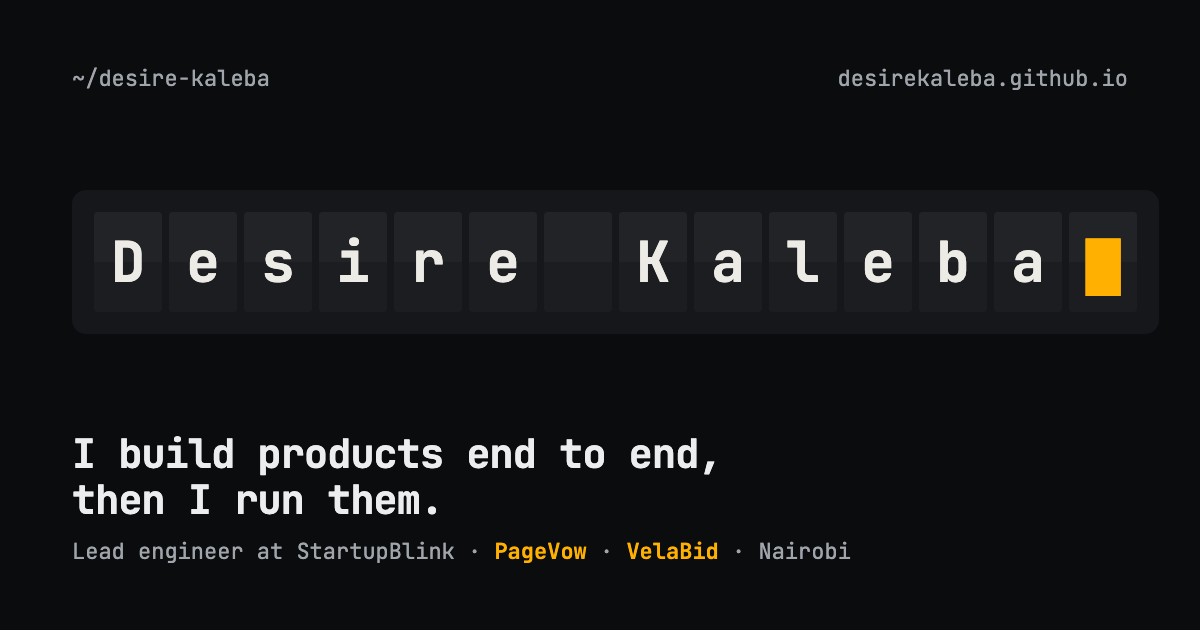
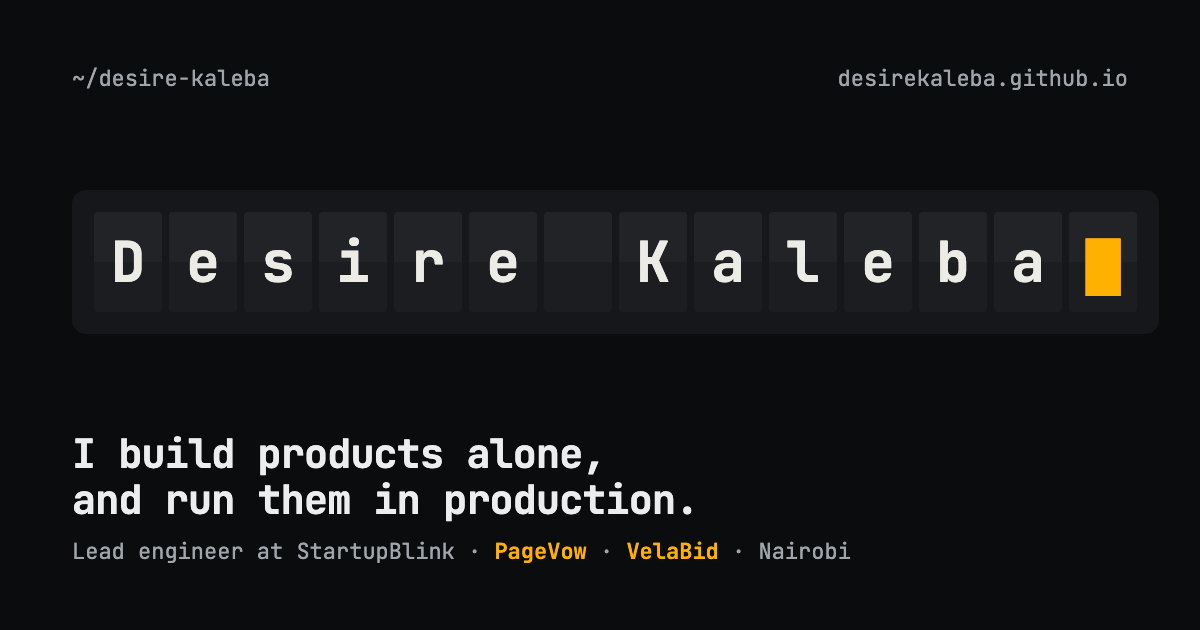
feat(site): lead with proof and separate my products from my job
The home page listed StartupBlink under "things I built". It's my
employer, so it now leads the experience section, linked to its case
study. "Things I built" is just PageVow and VelaBid.

Copy changes:
- Headline and intro lead with proof: paying customers with no
  marketing, two products built alone, seven engineers.
- 7 years, not "6+", and requests per month (~18M) everywhere.
- PageVow and VelaBid get engineering evidence from their repos:
  commits, test counts, payments from day one, WhatsApp sharing,
  integration tests on the money paths.
- "How I build" quotes the real testing rules from PageVow's CLAUDE.md
  instead of a made-up snippet.
- Experience moves up, right after the products.

Changed region(s): [[0.0617, 0.6937, 0.6167, 0.8444]]

diff --git a/src/data/work.ts b/src/data/work.ts
@@ -40,23 +40,23 @@ export const caseStudies: CaseStudy[] = [
       'How I built and run PageVow alone: personal pages for life’s big moments, an AI pipeline that never publishes unchecked output, and a hardened Paystack payment flow.',
     role: 'founder, solo engineer',
     summary:
-      'Personal pages for birthdays, proposals, graduations and weddings: letters, albums and invitations. AI writes from the customer’s own notes, nothing is published unchecked, and publishing is the step you pay for.',
+      'Personal pages for birthdays, proposals, graduations and weddings: letters, albums and invitations. 123 people have made 600+ pages, about five each, and nobody found it through an ad. AI writes from the customer’s own notes, and nothing is published unchecked.',
     facts: [
-      { k: 'users', v: '123' },
-      { k: 'pages_generated', v: '600+' },
+      { k: 'pages_generated', v: '600+ from 123 users' },
+      { k: 'team_made_requests', v: '79' },
       { k: 'marketing_spend', v: '0 (first $200 came organically)' },
     ],
     stack: 'TypeScript Turborepo · Next.js · NestJS · Drizzle · PostgreSQL · Cloudflare R2 · Paystack',
     meta: [
       { k: 'role', v: 'Founder and solo engineer' },
       { k: 'status', v: 'Live at pagevow.com' },
-      { k: 'since', v: 'March 2026' },
+      { k: 'since', v: 'March 2026 · 640+ commits' },
       { k: 'stack', v: 'TypeScript Turborepo · Next.js · NestJS · Drizzle · PostgreSQL · Cloudflare R2 · Paystack' },
     ],
     links: [{ label: 'pagevow.com ↗', href: 'https://pagevow.com' }],
     numbers: [
-      { v: '123', k: 'users' },
-      { v: '600+', k: 'pages generated' },
+      { v: '600+', k: 'pages, made by 123 people' },
+      { v: '79', k: 'requests for team-made pages' },
       { v: '$0', k: 'spent on marketing' },
     ],
     sections: [
@@ -75,19 +75,22 @@ export const caseStudies: CaseStudy[] = [
       },
       {
         title: 'What I built',
-        paras: ['All of it, as founder and the only engineer. The spine is a five-step pipeline. Click through it.'],
+        paras: ['All of it, as founder and the only engineer: 640+ commits since March 2026. The spine is a five-step pipeline. Click through it.'],
         bullets: [
           'A TypeScript Turborepo: a Next.js web app, and a NestJS API that owns the payment boundary.',
+          '373 test files: 252 for the web app, 69 API integration tests against a real Postgres, and 52 Playwright journeys. Every change ships with its tests.',
           'The generate → validate → review → pay → publish pipeline.',
           'Validation and optional human review for every piece of model output.',
           'Hardened Paystack payments: signed checkout tokens, idempotent webhooks, replay fingerprinting, server-set amounts and a persistent security audit trail.',
           'Published pages with QR sharing, RSVPs, media and analytics.',
+          'A WhatsApp share button wherever a page is ready to send, with each link tagged (via=wa) so I can see what WhatsApp brings in.',
         ],
         diagram: true,
       },
       {
         title: 'The hard parts, and the decisions',
         decisions: [
+          { t: 'Charge from day one.', d: 'Paystack checkout was part of the first day’s commits, so every page since has been a real test of whether people will pay.' },
           { t: 'Model output never goes straight to publish.', d: 'Every generated page is validated, and can go to a human for review, before it can be published.' },
           { t: 'AI writes only from the customer’s notes.', d: 'Captions and pages are written from what the customer told us, so a page says what they meant, not what a model invented.' },
           { t: 'Try first, pay to publish.', d: 'A free, watermarked 24-hour preview, no card needed. Each page is a single purchase, with no subscription to explain or support.' },
@@ -100,8 +103,8 @@ export const caseStudies: CaseStudy[] = [
         paras: ['With zero marketing:'],
         numbers: [
           { v: '123', k: 'users' },
-          { v: '600+', k: 'pages generated' },
-          { v: '79', k: 'customer requests' },
+          { v: '600+', k: 'pages, about five each' },
+          { v: '79', k: 'requests for team-made pages' },
           { v: '$200', k: 'first organic revenue' },
         ],
       },
@@ -171,7 +174,7 @@ export const caseStudies: CaseStudy[] = [
       },
       {
         title: 'What I built',
-        paras: ['All of it, as founder and the only engineer. Here is an auction’s life, step by step.'],
+        paras: ['All of it, as founder and the only engineer: 176 commits from October 2025 to January 2026. Here is an auction’s life, step by step.'],
         bullets: [
           'A TypeScript Turborepo: a Next.js web app, and a NestJS API on PostgreSQL through Drizzle.',
           'Listings, timed auctions, real-time bidding over Socket.IO, watchlists, messaging and notifications.',
@@ -180,6 +183,7 @@ export const caseStudies: CaseStudy[] = [
           'Trust and safety: KYC checkpoints, moderated messaging, dispute handling and a full audit log.',
           'An event-driven backend: BullMQ workers on Redis for auctions, settlement and notifications.',
           'Media from S3/CloudFront. Observability with OpenTelemetry and Prometheus.',
+          'Integration tests for the flows that move money or pick a winner: bids, the soft close and settlement.',
         ],
         diagram: true,
       },
@@ -224,14 +228,14 @@ export const caseStudies: CaseStudy[] = [
     slug: 'startupblink',
     name: 'StartupBlink',
     kind: 'job · lead full-stack engineer',
-    oneLine: 'I lead the seven engineers behind 596K+ requests a day.',
+    oneLine: 'I lead the seven engineers behind ~18M requests a month.',
     description:
-      'My work as lead full-stack engineer at StartupBlink: a TypeScript monorepo, a Cloudflare and Redis setup serving 596K+ requests a day, and a team of seven.',
+      'My work as lead full-stack engineer at StartupBlink: a TypeScript monorepo, a Cloudflare and Redis setup serving ~18M requests a month, and a team of seven.',
     role: 'lead full-stack engineer, team of 7',
     summary:
       'A global startup-ecosystem intelligence platform: 300,000+ startups ranked across 2,000+ cities in 118 countries, relied on by 40+ government clients.',
     facts: [
-      { k: 'requests_per_day', v: '596K+' },
+      { k: 'requests_per_month', v: '~18M' },
       { k: 'cache_hit_rate', v: '~70%' },
       { k: 'engagement', v: '+35% in 5 months, after a refactor I led' },
     ],
@@ -244,7 +248,7 @@ export const caseStudies: CaseStudy[] = [
     ],
     links: [{ label: 'startupblink.com ↗', href: 'https://www.startupblink.com' }],
     numbers: [
-      { v: '596K+', k: 'requests a day' },
+      { v: '~18M', k: 'requests a month' },
       { v: '~70%', k: 'cache-hit rate' },
       { v: '+35%', k: 'engagement in 5 months' },
     ],
@@ -277,7 +281,7 @@ export const caseStudies: CaseStudy[] = [
         title: 'The hard parts, and the decisions',
         decisions: [
           { t: 'One typed monorepo.', d: 'Legacy JavaScript moved into a TypeScript Turborepo of 10+ packages and apps. Its shared services are reused across 5+ apps.' },
-          { t: 'Cache before compute.', d: 'Cloudflare in front, Redis behind: a ~70% cache-hit rate on 596K+ requests a day.' },
+          { t: 'Cache before compute.', d: 'Cloudflare in front, Redis behind: a ~70% cache-hit rate on ~18M requests a month.' },
           { t: 'Ship often.', d: '2+ production deploys a week, with deploy time cut by 50%.' },
           { t: 'AI-assisted, human-reviewed.', d: 'Agents help with the work. People review everything that ships.' },
         ],
@@ -297,7 +301,7 @@ export const caseStudies: CaseStudy[] = [
       title: 'startupblink / a request’s path (simplified)',
       note: 'Click a step, or use the arrow keys.',
       nodes: [
-        ['Visitors', '37K+ unique visitors and 596K+ requests a day.'],
+        ['Visitors', '37K+ unique visitors a day, and about 18M requests a month.'],
         ['Cloudflare', 'The edge in front of everything. I operate and tune it.'],
         ['Redis', 'The cache behind Cloudflare. Together they reach a ~70% cache-hit rate.'],
         ['Apps', 'React/Next.js apps and Node.js services using tRPC, in a Turborepo of 10+ packages and apps.'],

diff --git a/src/data/experience.ts b/src/data/experience.ts
@@ -1,5 +1,15 @@
-export const experience = [
-  { when: 'Oct 2023 → now', role: 'Lead Full-Stack Engineer', org: 'StartupBlink', hi: 'Lead seven engineers. An end-to-end platform refactor raised engagement 35% in 5 months.', current: true },
+export type Role = { when: string; role: string; org: string; hi: string; current?: boolean; facts?: string[]; link?: string };
+
+export const experience: Role[] = [
+  {
+    when: 'Oct 2023 → now',
+    role: 'Lead Full-Stack Engineer',
+    org: 'StartupBlink',
+    hi: 'I lead seven engineers on a startup-ecosystem intelligence platform that ranks 300,000+ startups across 118 countries and that 40+ government clients rely on. An end-to-end platform refactor I led raised engagement 35% in 5 months.',
+    facts: ['~18M requests a month', '~70% cache-hit rate', '2+ deploys a week', 'deploy time −50%'],
+    link: '/work/startupblink',
+    current: true,
+  },
   { when: 'Oct 2022 – Sep 2023', role: 'Full-Stack Engineer', org: 'StartupBlink', hi: 'Joined as an engineer; became lead a year later.' },
   { when: 'Sep 2022 – May 2023', role: 'Software Engineer (contract)', org: 'Entendre Finance', hi: 'Serverless Node.js for crypto accounting across millions of on-chain transactions. Later acquired by MoonPay.' },
   { when: 'Feb – Dec 2022', role: 'Node.js Mentor & Curriculum Developer', org: 'Side Hustle', hi: 'Mentored 1,800+ developers, wrote the backend curriculum and made 50+ training videos.' },
@@ -17,6 +27,7 @@ export const credentials = [
 export const howIBuild = [
   'Agents draft. I review every change before it ships, and I own the result.',
   'At StartupBlink I brought this to a team of seven: coding agents, MCP integrations, custom skills and multi-agent workflows, all under human review.',
-  'PageVow holds its own AI to the same rule: unchecked model output never gets published.',
+  'On PageVow the rules are written down for the agents: no change without its tests, no bug fix without a test that fails first. 373 test files so far, from unit tests to 52 Playwright journeys.',
+  'PageVow holds its own AI to the same standard: unchecked model output never gets published.',
   'I run what I ship: Cloudflare and Redis in production, 2+ deploys a week, and deploy time cut by half.',
 ];

diff --git a/src/data/stack.ts b/src/data/stack.ts
@@ -30,7 +30,7 @@ const cats: [string, [string, string, [string, string][]][]][] = [
   ['DATA', [
     ['postgres', 'PostgreSQL', [['pagevow', 'The database, accessed with Drizzle.'], ['velabid', 'Runs on AWS RDS.']]],
     ['mysql', 'MySQL', [['startupblink', 'The platform database, accessed with Prisma.']]],
-    ['redis', 'Redis', [['startupblink', 'Cache behind Cloudflare: ~70% hit rate on 596K+ requests a day.'], ['velabid', 'Queues for the BullMQ workers, and atomic steps in bid placement.']]],
+    ['redis', 'Redis', [['startupblink', 'Cache behind Cloudflare: ~70% hit rate on ~18M requests a month.'], ['velabid', 'Queues for the BullMQ workers, and atomic steps in bid placement.']]],
     ['prisma', 'Prisma', [['startupblink', 'ORM over MySQL.']]],
     ['drizzle', 'Drizzle', [['pagevow', 'ORM over PostgreSQL, including webhook idempotency keys.'], ['velabid', 'ORM over PostgreSQL for auctions, bids and settlement.']]],
     ['mongodb', 'MongoDB', [['entendre', 'With serverless Node.js on Lambda.']]],
@@ -59,7 +59,7 @@ const cats: [string, [string, string, [string, string][]][]][] = [
     ['mcp', 'MCP + custom skills', [['startupblink', 'MCP integrations, custom skills and multi-agent workflows.']]],
     ['aigen', 'AI generation', [['pagevow', 'Pages are generated, validated and optionally reviewed by a human before anyone pays.']]],
     ['review', 'Code review', [['startupblink', 'I set standards and review for a team of seven.'], ['manaknight', 'Added it with automated tests; production incidents went down.']]],
-    ['tests', 'Automated tests', [['manaknight', 'Added them; production incidents went down.']]],
+    ['tests', 'Automated tests', [['pagevow', '373 test files: unit, API integration on a real Postgres, and 52 Playwright journeys.'], ['velabid', 'Integration tests for bids, the soft close and settlement.'], ['manaknight', 'Added them; production incidents went down.']]],
   ]],
 ];
 

diff --git a/src/scripts/board/board.ts b/src/scripts/board/board.ts
@@ -26,7 +26,7 @@ export const WINDOW = 30;
 
 const PV = ['123 users', '600+ pages', '79 requests', '0 marketing', '$200 organic'];
 const PV_MOBILE = PV.slice(0, 4);
-const SB = ['596K+ req/day', '~70% cached', 'team of 7', '2+ deploys/wk', '118 countries'];
+const SB = ['~18M req/month', '~70% cached', 'team of 7', '2+ deploys/wk', '118 countries'];
 
 type Layout = {
   rows: { pv: number; vbTime: number; sb: number; time: number; msg: number };
@@ -125,7 +125,7 @@ export class Board {
         : ['# 404.yaml', 'status: 404', 'route: not found', 'shipped_here: nothing', '', 'try:', '  - /', '  - /work/pagevow', '  - /work/velabid', '  - /work/startupblink', '  - desirekaleba@gmail.com'])[i] ?? '';
     }
     if (this.mobile) {
-      return ['role: Lead Engineer', 'at: StartupBlink', 'from: Nairobi', 'pagevow: ' + PV_MOBILE[this.pvI % PV_MOBILE.length], 'velabid_demo: ' + this.vbText(), 'traffic: 596K+/day', '# desirekaleba', '#   @gmail.com'][i] ?? '';
+      return ['role: Lead Engineer', 'at: StartupBlink', 'from: Nairobi', 'pagevow: ' + PV_MOBILE[this.pvI % PV_MOBILE.length], 'velabid_demo: ' + this.vbText(), 'traffic: ~18M req/mo', '# desirekaleba', '#   @gmail.com'][i] ?? '';
     }
     const time = this.live ? '# nairobi ' + this.lastTime + ' utc+3' : '# nairobi · utc+3';
     return ['# hover a line to flip it', 'role: Lead Engineer', 'at: StartupBlink', 'from: Nairobi, Kenya', 'remote: true',

diff --git a/src/data/site.ts b/src/data/site.ts
@@ -11,13 +11,13 @@ export const site = {
   location: 'Nairobi, Kenya',
   languages: ['English', 'French', 'Swahili'],
   description:
-    'Desire Kaleba, lead engineer at StartupBlink in Nairobi. I build products end to end and run them in production: PageVow, VelaBid, and a platform serving 596K+ requests a day.',
+    'Desire Kaleba, lead engineer at StartupBlink in Nairobi. I built PageVow and VelaBid alone and run them in production, and lead seven engineers on a platform 40+ governments rely on.',
 };
 
 export const nav = [
-  { href: '/#work', label: 'work/' },
-  { href: '/#stack', label: 'stack/' },
-  { href: '/#how', label: 'how-i-build/' },
+  { href: '/#work', label: 'built/' },
   { href: '/#exp', label: 'experience/' },
+  { href: '/#how', label: 'how-i-build/' },
+  { href: '/#stack', label: 'stack/' },
   { href: '/#contact', label: 'contact/' },
 ];
